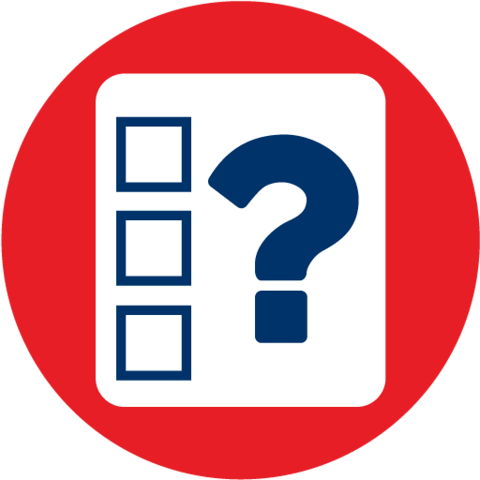
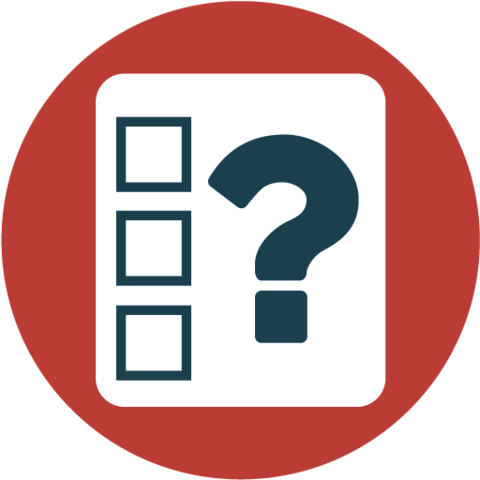
adds image styles

diff --git a/client/components/Home.js b/client/components/Home.js
@@ -6,7 +6,6 @@ import AboutUs from './AboutUs';
 import Footer from './Footer';
 import About from './About';
 import HomeLinks from './HomeLinks';
-import civis from '../images/civis.svg';
 import { homeCardStyle, accordian } from './styles.scss';
 
 class Home extends React.Component {
@@ -19,8 +18,7 @@ class Home extends React.Component {
   render() {
     return(
       <div>
-        <img src={civis} style={{height: "120px", margin: "0 auto", display: "block"}} />
-        <div className = "row">
+        <div className = "row" style={{margin: "60px 0"}}>
           <div className="col s12 m10 offset-m1 l8 offset-l2">
             <HomeCard />
           </div>
@@ -29,7 +27,7 @@ class Home extends React.Component {
           <ul className='collapsible' data-collapsible='accordion'>
             <li>
               <div className='center collapsible-header grey lighten-3'>
-                <h3 className={accordian}>Click to Learn More</h3>
+                <h3 className={accordian}>Read More</h3>
               </div>
               <div className='collapsible-body'><About /></div>
             </li>

diff --git a/client/components/About.js b/client/components/About.js
@@ -1,10 +1,11 @@
 import React from 'react';
 import AboutUs from './AboutUs';
 import appStore from '../images/app_store.svg';
+import civis from '../images/civis.svg';
 
 const About = () => (
   <div>
-    <h1 className='center'>About Civis</h1>
+    <img src={civis} style={{height: "80px", display: "block", margin: "0 auto"}} />
     <br />
     <p>
       Lorem ipsum dolor sit amet, consectetur adipiscing elit. Phasellus quis pellentesque magna. Fusce faucibus, lacus at tristique consectetur, tortor nibh ornare mi, lobortis suscipit ex libero tincidunt tortor. Nam blandit dolor ante, ut pulvinar nunc aliquam ac. Proin imperdiet, lacus ac commodo dignissim, libero velit consequat enim, scelerisque blandit risus mauris at quam. Sed a tincidunt massa, vitae egestas justo. Nam fringilla pulvinar ipsum, ac efficitur nisl aliquam vitae. Morbi gravida ut sem eu fringilla.

diff --git a/client/components/Navbar.js b/client/components/Navbar.js
@@ -4,8 +4,10 @@ import { connect } from 'react-redux';
 import { browserHistory } from 'react-router';
 import { handleLogout } from '../actions/auth';
 import { resetReps } from '../actions/reps';
-import civis from '../images/civis-bw.svg';
+// import civis from '../images/civis-bw.svg';
 import { civisBlue } from './styles.scss';
+import civis from '../images/civis.svg';
+
 
 class Navbar extends React.Component {
   logout = (e) => {

diff --git a/client/components/AddressForm.js b/client/components/AddressForm.js
@@ -66,7 +66,7 @@ class AddressForm extends React.Component {
           Find your legislators by zip code or address
         </span>
         <form className='center' onSubmit={this.handleSubmit}>
-          <div className="row" style={{marginTop: "50px"}}>
+          <div className="row" style={{marginTop: "10px"}}>
             <div className="input-field col s12 m8 offset-m1">
               <input
                 id="address"
